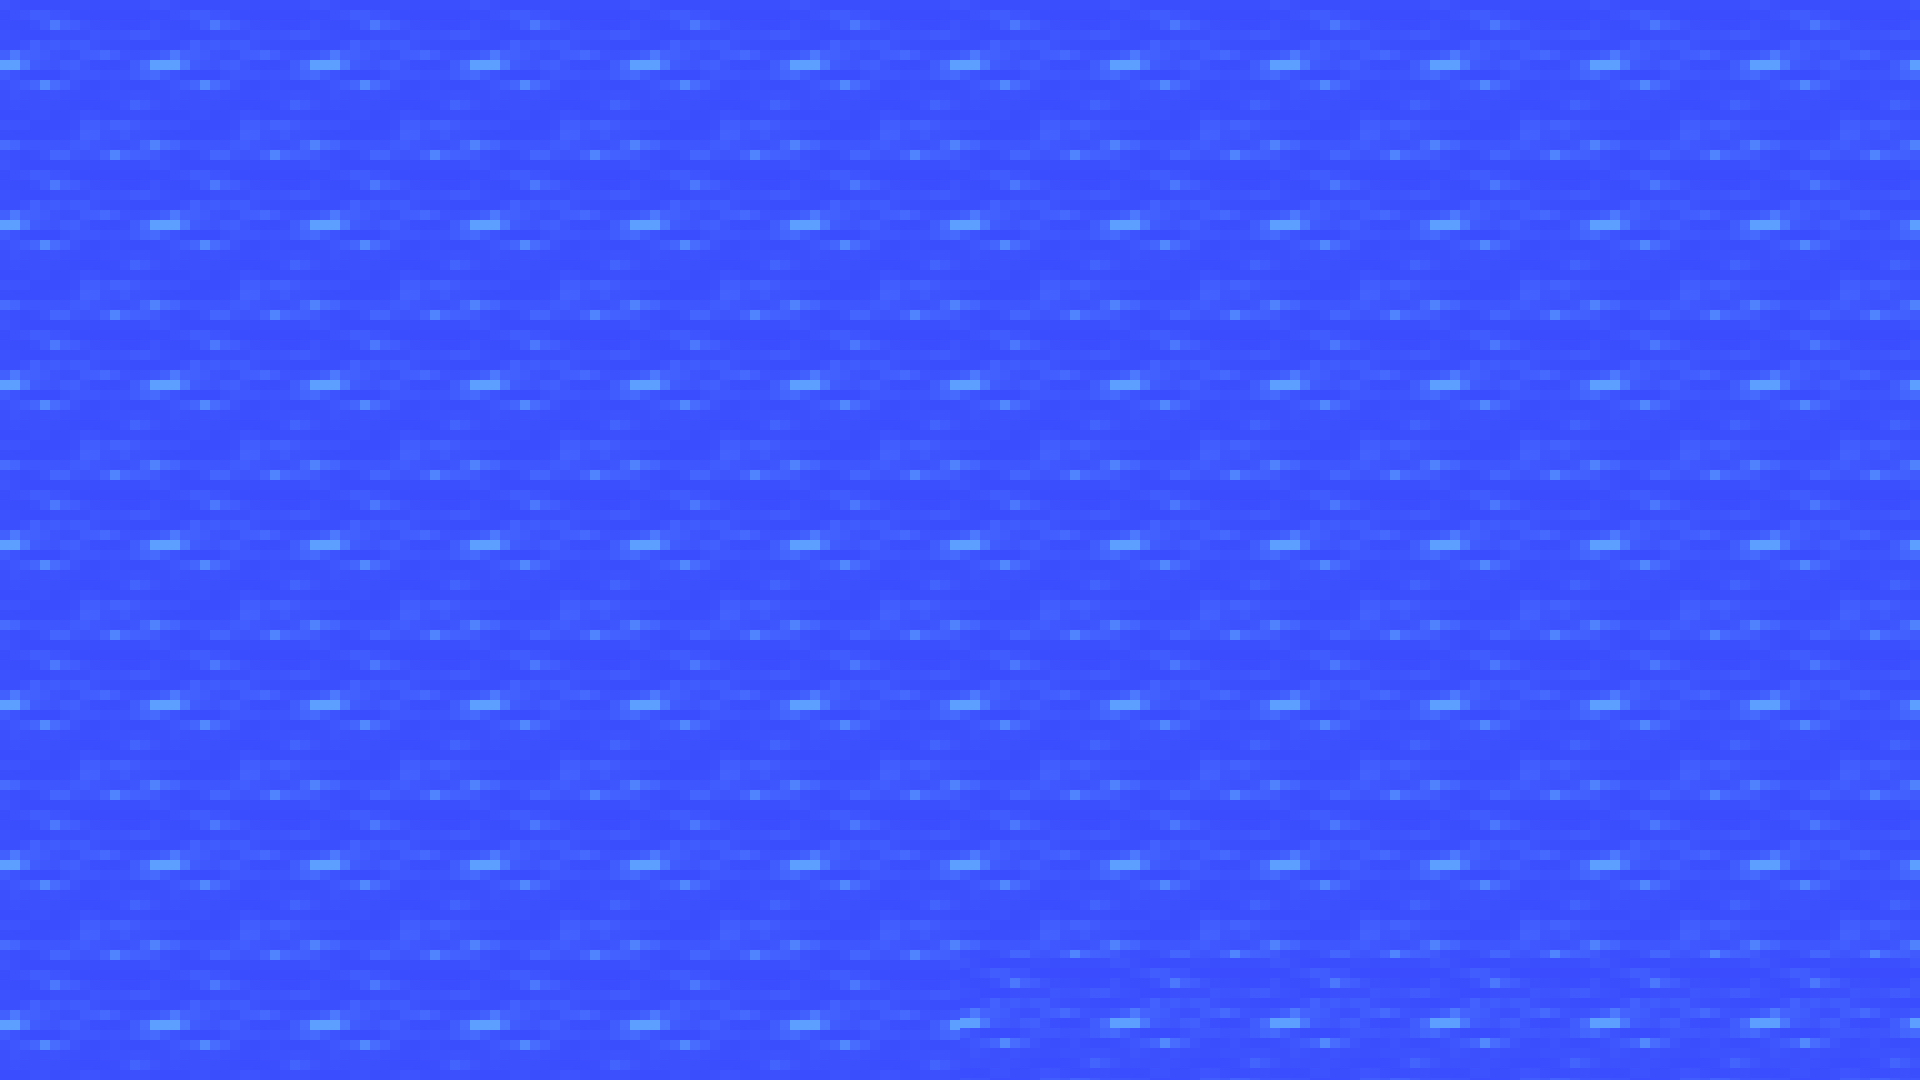
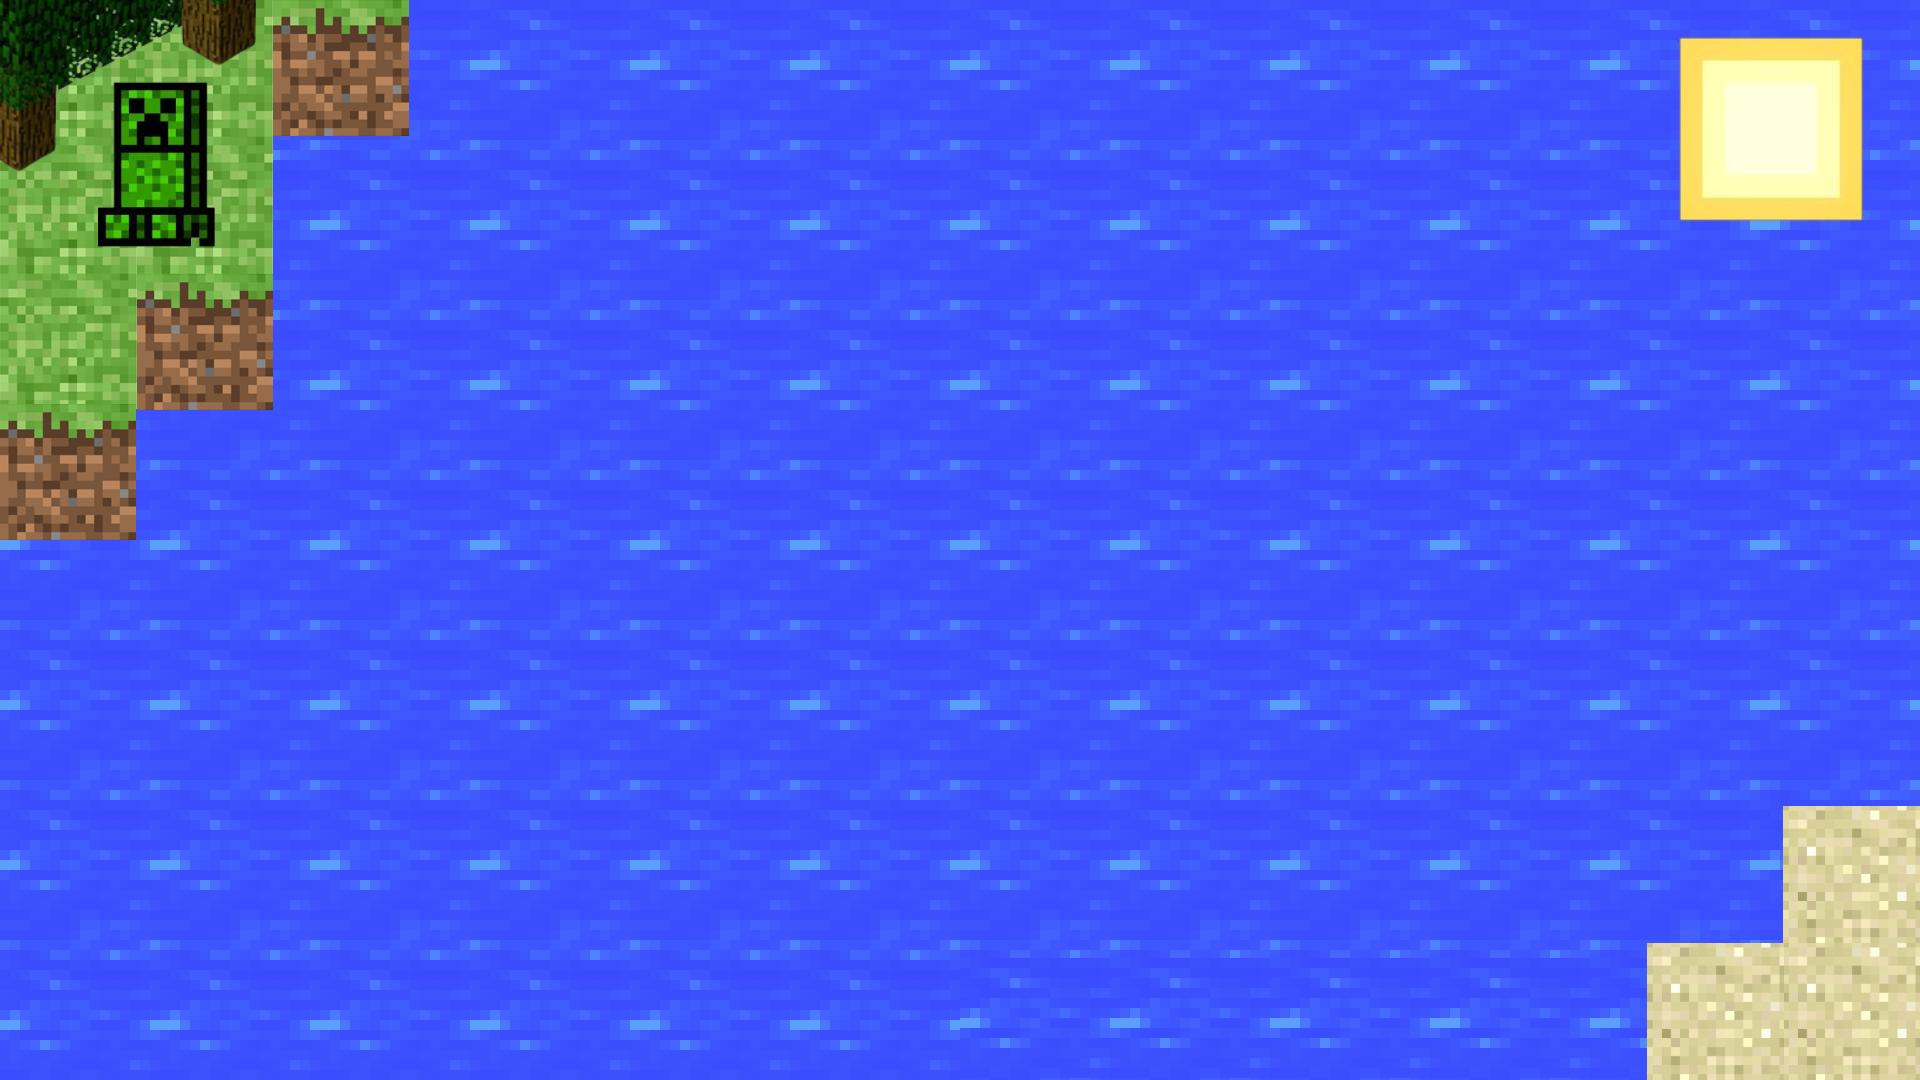
[Add Day and Night]

Changed region(s): [[0.0, 0.0, 0.2188, 0.5194], [0.8438, 0.7333, 1.0, 1.0], [0.875, 0.0306, 0.9688, 0.2139]]

diff --git a/GUI/login_to_server.cpp b/GUI/login_to_server.cpp
@@ -9,8 +9,8 @@
 
 void Display::get_map_size()
 {
-    width = 6;
-    height = 6;
+    width = 9;
+    height = 9;
     
 }
 
@@ -59,6 +59,7 @@ void Display::render4()
     sprite_RIGHT.setTexture(textureRIGHT);
     sprite_LEFT.setTexture(textureLEFT);
 
+
     sprite_HTAG.setScale(8, 8);
     sprite_A.setScale(8, 8);
     sprite_B.setScale(8, 8);
@@ -68,7 +69,12 @@ void Display::render4()
     sprite_DOWN.setScale(8, 8);
     sprite_RIGHT.setScale(8, 8);
     sprite_LEFT.setScale(8, 8);
-    window.draw(sprite_water);
+
+    if (isDay) {
+        window.draw(sprite_water);
+    } else {
+        window.draw(sprite_night);
+    }
 
 
     while (map.size() > i) {
@@ -149,11 +155,19 @@ void Display::client_loop()
         }
         handleEvents4();
         update4();
+
+        // Mise à jour de l'état jour/nuit
+        if (clock.getElapsedTime() >= timeInterval) {
+            isDay = !isDay; // Alterne entre jour et nuit
+            clock.restart(); // Réinitialise le chronomètre
+        }
+
         render4();
         tv.tv_sec = 0;
         tv.tv_usec = 10000;
     }
 }
+
 
 
 void Display::receive_from_server()

diff --git a/GUI/main.cpp b/GUI/main.cpp
@@ -29,6 +29,7 @@ void Display::loadAssets()
     texture8.loadFromFile("GUI/assets/join_server3.png"); 
     texture9.loadFromFile("GUI/assets/join_server4.png");
     texture10.loadFromFile("GUI/assets/water.jpeg");
+    textureNight.loadFromFile("GUI/assets/moon.png");
 
      textureHTAG.loadFromFile("GUI/assets/#.png");
         textureA.loadFromFile("GUI/assets/A.png");
@@ -47,6 +48,8 @@ void Display::loadAssets()
     sprite_menu.setTexture(texture1);
     sprite_server.setTexture(texture4);
     sprite_login.setTexture(texture6);
+    sprite_night.setTexture(textureNight);
+
     sprite_menu.setScale(1920 / sprite_menu.getGlobalBounds().width, 1080 / sprite_menu.getGlobalBounds().height);
 
     if (!menuMusic.openFromFile("GUI/assets/menu.wav")) {

diff --git a/GUI/main.hpp b/GUI/main.hpp
@@ -128,6 +128,15 @@ private:
     sf::Sprite sprite_RIGHT;
     sf::Sprite sprite_LEFT;
 
+    sf::Sprite sprite_day;
+    sf::Sprite sprite_night;
+    sf::Clock clock;
+    bool isDay = true;
+    sf::Time timeInterval = sf::seconds(20);
+
+    sf::Texture textureDay;
+    sf::Texture textureNight;
+
 };
 
 #endif // MAIN_HPP
